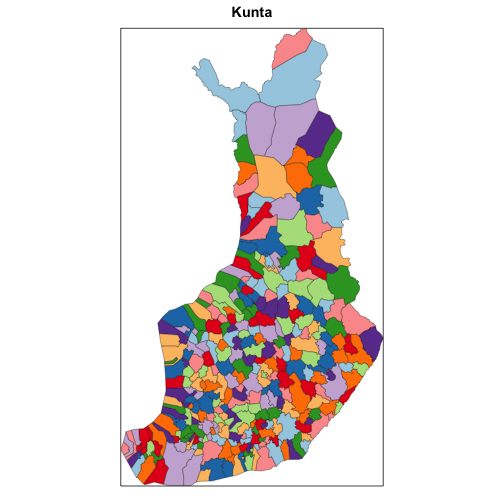
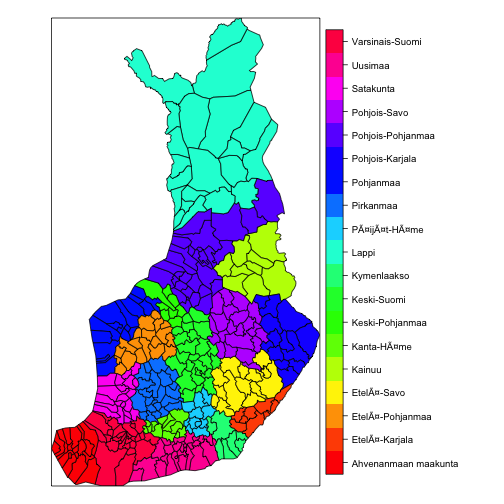
Updated tutorial to use spplot() direclty instead of plot_shape().

diff --git a/vignettes/fingis_tutorial.md b/vignettes/fingis_tutorial.md
@@ -16,13 +16,13 @@ For contact information and source code, see the [github page](https://github.co
 
 The following data sources are currently available:
 * [Helsinki region district maps](#aluejakokartat) (Helsingin seudun aluejakokartat)
-  * Aluejakokartat, äänestysaluejako from [Helsingin kaupungin Kiinteistövirasto (HKK)](http://ptp.hel.fi/avoindata/)
+ * Aluejakokartat, äänestysaluejako from [Helsingin kaupungin Kiinteistövirasto (HKK)](http://ptp.hel.fi/avoindata/)
 * [Helsinki spatial data](#hel-spatial) (Helsingin seudun avoimia paikkatietoaineistoja)
-  * Seutukartta, Helsingin piirijako, rakennusrekisterin ote from [Helsingin kaupungin Kiinteistövirasto](http://ptp.hel.fi/avoindata/)
+ * Seutukartta, Helsingin piirijako, rakennusrekisterin ote from [Helsingin kaupungin Kiinteistövirasto](http://ptp.hel.fi/avoindata/)
 * [National Land Survey data](#maanmittauslaitos) (Maanmittauslaitoksen avointa dataa)
-  * Yleiskartat from [National Land Survey Finland](http://www.maanmittauslaitos.fi/en/opendata)
+ * Yleiskartat from [National Land Survey Finland](http://www.maanmittauslaitos.fi/en/opendata)
 * [Geocoding](#geocoding)
-  * Services: [OKF.fi Geocoding API Test Console](http://data.okf.fi/console/), [OpenStreetMap Nominatim](http://wiki.openstreetmap.org/wiki/Nominatim_usage_policy), [Google](http://code.google.com/apis/maps/documentation/geocoding/)
+ * Services: [OKF.fi Geocoding API Test Console](http://data.okf.fi/console/), [OpenStreetMap Nominatim](http://wiki.openstreetmap.org/wiki/Nominatim_usage_policy), [Google](http://code.google.com/apis/maps/documentation/geocoding/)
 
 ## Installation
 
@@ -77,41 +77,59 @@ get_Helsinki_aluejakokartat()
 ```
 
 
-Retrieve 'suuralue' spatial object with `get_Helsinki_aluejakokartat()`, and plot with `plot_shape()`.
+Below the 'suuralue' districts is used for plotting examples with `spplot()` and [ggplot2](http://ggplot2.org/). The other district types can be plotted similarly.
+
+### Plot with spplot
+
+Retrieve 'suuralue' spatial object with `get_Helsinki_aluejakokartat()` and plot with `spplot()`.
 
 
 ```r
 sp.suuralue <- get_Helsinki_aluejakokartat(map.specifier = "suuralue")
-plot_shape(sp = sp.suuralue, varname = "Name", type = "discrete", plot = FALSE)
+spplot(sp.suuralue, zcol = "Name")
 ```
 
 ![plot of chunk hkk-suuralue1](figure/hkk-suuralue1.png) 
 
 
-Retrieve 'suuralue_piste' spatial object, containing the center points of the districts, and plot with `spplot()`.
+There are two algorithms available for generating nice region colours with separable adjacent regions in function `generate_map_colours()`. Here algorithm 2 is used and the map is plotted with `spplot()`.
 
 
 ```r
-sp.suuralue.piste <- get_Helsinki_aluejakokartat(map.specifier = "suuralue_piste")
-sp::spplot(obj = sp.suuralue.piste, zcol = "Name")
+sp.suuralue@data$COL <- factor(generate_map_colours(sp = sp.suuralue, algorithm = 2))
+spplot(sp.suuralue, zcol = "COL", col.regions = rainbow(length(levels(sp.suuralue@data$COL))), 
+    colorkey = FALSE)
 ```
 
 ![plot of chunk hkk-suuralue2](figure/hkk-suuralue2.png) 
 
 
-Use `sp2df()` function to tranform the spatial objects into data frames. Plot with [ggplot2](http://ggplot2.org/), using blank map theme with `get_theme_map()`. 
+### Plot with ggplot2
 
+Use the 'sp.suuralue' retrieved above, and retrieve also the center points of the districts. Use `sp2df()` function to tranform the spatial objects into data frames. Plot with [ggplot2](http://ggplot2.org/), using blank map theme with `get_theme_map()`. 
+
+
+```r
+# Retrieve center points
+sp.suuralue.piste <- get_Helsinki_aluejakokartat(map.specifier = "suuralue_piste")
+```
+
+```
+## OGR data source with driver: KML 
+## Source: "/var/folders/6h/s1qsd2q557nfghh2vmc77m2c0000gn/T//RtmpTNoMHN/PKS_suuralue_piste.kml", layer: "pks_suuralue_piste"
+## with 23 features and 2 fields
+## Feature type: wkbPoint with 3 dimensions
+```
 
 ```r
 # Get data frames
 df.suuralue <- sp2df(sp.suuralue, "Name")
 df.suuralue.piste <- sp2df(sp.suuralue.piste, "Name")
-
 # Set map theme
 library(ggplot2)
 theme_set(get_theme_map())
 # Plot regions, add labels using the points data
-ggplot(df.suuralue, aes(x = long, y = lat, fill = Name)) + geom_polygon() + 
+ggplot(df.suuralue, aes(x = long, y = lat)) + geom_polygon(aes(fill = COL, group = Name)) + 
     geom_text(data = df.suuralue.piste, aes(label = Name)) + theme(legend.position = "none")
 ```
 
@@ -128,6 +146,17 @@ library(ggmap)
 hel.bbox <- as.vector(sp.suuralue@bbox)
 # Get map using openstreetmap
 hel.map <- ggmap::get_map(location = hel.bbox, source = "osm")
+```
+
+```
+## Warning: cannot open: HTTP status was '503 Service Unavailable'
+```
+
+```
+## Error: map grabbing failed - see details in ?get_openstreetmap.
+```
+
+```r
 # Plot transparent districts on top the background map
 ggmap(hel.map) + geom_polygon(data = df.suuralue, aes(x = long, y = lat, fill = Name), 
     alpha = 0.5) + geom_text(data = df.suuralue.piste, aes(x = long, y = lat, 
@@ -137,15 +166,19 @@ ggmap(hel.map) + geom_polygon(data = df.suuralue, aes(x = long, y = lat, fill = 
 ![plot of chunk hkk-suuralue4](figure/hkk-suuralue4.png) 
 
 
-Retrieve and plot äänetysaluejako (election districts) with `get_Helsinki_aluejakokartat()` and `plot_shape()`.
+### Plot elecetion districts
+
+Retrieve and plot äänetysaluejako (election districts) with `get_Helsinki_aluejakokartat()` and `spplot()`.
 
 
 ```r
 sp.aanestys <- get_Helsinki_aluejakokartat(map.specifier = "aanestysalue")
-plot_shape(sp.aanestys, "KUNTA", type = "discrete", plot = FALSE)
+spplot(sp.aanestys, zcol = "KUNTA", col.regions = rainbow(length(levels(sp.aanestys@data$KUNTA))), 
+    colorkey = FALSE)
 ```
 
 ![plot of chunk hkk-aanestysalue](figure/hkk-aanestysalue.png) 
+
 
 
 ## <a name="hel-spatial"></a>Helsinki spatial data
@@ -252,7 +285,6 @@ Retrieve regional borders for Finland with `get_MML()`.
 ```r
 # Get a specific map
 sp.mml <- get_MML(map.id = "Yleiskartta-4500", data.id = "HallintoAlue")
-
 # Investigate available variables in this map
 head(as.data.frame(sp.mml))
 ```
@@ -303,23 +335,29 @@ head(as.data.frame(sp.mml))
 ```
 
 
-Plot provinces (maakunnat) with `plot_shape()`.
+Plot municipalities (kunnat) with `spplot()`, using colours from `generate_map_colours()`.
+
 
 
 ```r
-# Plot the shape file, colour provinces
-plot_shape(sp = sp.mml, varname = "Maakunta", type = "discrete", plot = FALSE)
+# Get region colouring for municipalities using algorithm 1
+sp.mml@data$COL <- factor(generate_map_colours(sp.mml, algorithm = 1))
+# Plot the shape file, colour municipalities
+spplot(sp.mml, zcol = "COL", col.regions = rainbow(length(levels(sp.mml@data$COL))), 
+    colorkey = FALSE)
 ```
 
 ![plot of chunk MML_province](figure/MML_province.png) 
 
 
-Plot municipalities (kunnat) with `plot_shape()`.
+Plot provinces (maakunnat) with `spplot()`. Note that `generate_map_colours()` works currently only for the smallest polygons in the data, here municipalities, and can not be used for the provinces!
 
 
 ```r
-# Plot the shape file, colour municipalities
-plot_shape(sp = sp.mml, varname = "Kunta", type = "discrete", plot = FALSE)
+# Use factors for showing provinces names
+sp.mml@data$Maakunta.FI <- factor(sp.mml@data$Maakunta.FI)
+# Plot the shape file, colour provinces
+spplot(sp.mml, zcol = "Maakunta.FI", col.regions = rainbow(length(levels(sp.mml@data$Maakunta.FI))))
 ```
 
 ![plot of chunk MML_municipality](figure/MML_municipality.png) 
@@ -424,10 +462,11 @@ sessionInfo()
 ## other attached packages:
 ##  [1] mapproj_1.2-2      maps_2.3-6         ggmap_2.3         
 ##  [4] rgeos_0.3-4        maptools_0.8-29    knitr_1.5         
-##  [7] fingis_0.9.10      RColorBrewer_1.0-5 XML_3.95-0.2      
-## [10] ggplot2_0.9.3.1    spdep_0.5-71       Matrix_1.1-2-2    
-## [13] RCurl_1.95-4.1     bitops_1.0-6       rjson_0.2.13      
-## [16] rgdal_0.8-16       sp_1.0-14          roxygen2_3.1.0    
+##  [7] fingis_0.9.10      gcolor_1.0         RColorBrewer_1.0-5
+## [10] XML_3.95-0.2       ggplot2_0.9.3.1    spdep_0.5-71      
+## [13] Matrix_1.1-2-2     RCurl_1.95-4.1     bitops_1.0-6      
+## [16] rjson_0.2.13       rgdal_0.8-16       sp_1.0-14         
+## [19] roxygen2_3.1.0    
 ## 
 ## loaded via a namespace (and not attached):
 ##  [1] boot_1.3-10         brew_1.0-6          coda_0.16-1        
@@ -435,11 +474,12 @@ sessionInfo()
 ##  [7] dichromat_2.0-0     digest_0.6.4        evaluate_0.5.1     
 ## [10] foreign_0.8-60      formatR_0.10        grid_3.0.3         
 ## [13] gtable_0.1.2        labeling_0.2        lattice_0.20-27    
-## [16] LearnBayes_2.12     MASS_7.3-30         munsell_0.4.2      
-## [19] nlme_3.1-115        plyr_1.8.1          png_0.1-7          
-## [22] proto_0.3-10        Rcpp_0.11.1         reshape2_1.2.2     
-## [25] RgoogleMaps_1.2.0.5 RJSONIO_1.0-3       scales_0.2.3       
-## [28] splines_3.0.3       stringr_0.6.2       tools_3.0.3
+## [16] LearnBayes_2.12     markdown_0.6.4      MASS_7.3-30        
+## [19] munsell_0.4.2       nlme_3.1-115        plyr_1.8.1         
+## [22] png_0.1-7           proto_0.3-10        Rcpp_0.11.1        
+## [25] reshape2_1.2.2      RgoogleMaps_1.2.0.5 RJSONIO_1.0-3      
+## [28] scales_0.2.3        splines_3.0.3       stringr_0.6.2      
+## [31] tools_3.0.3
 ```
 
 
